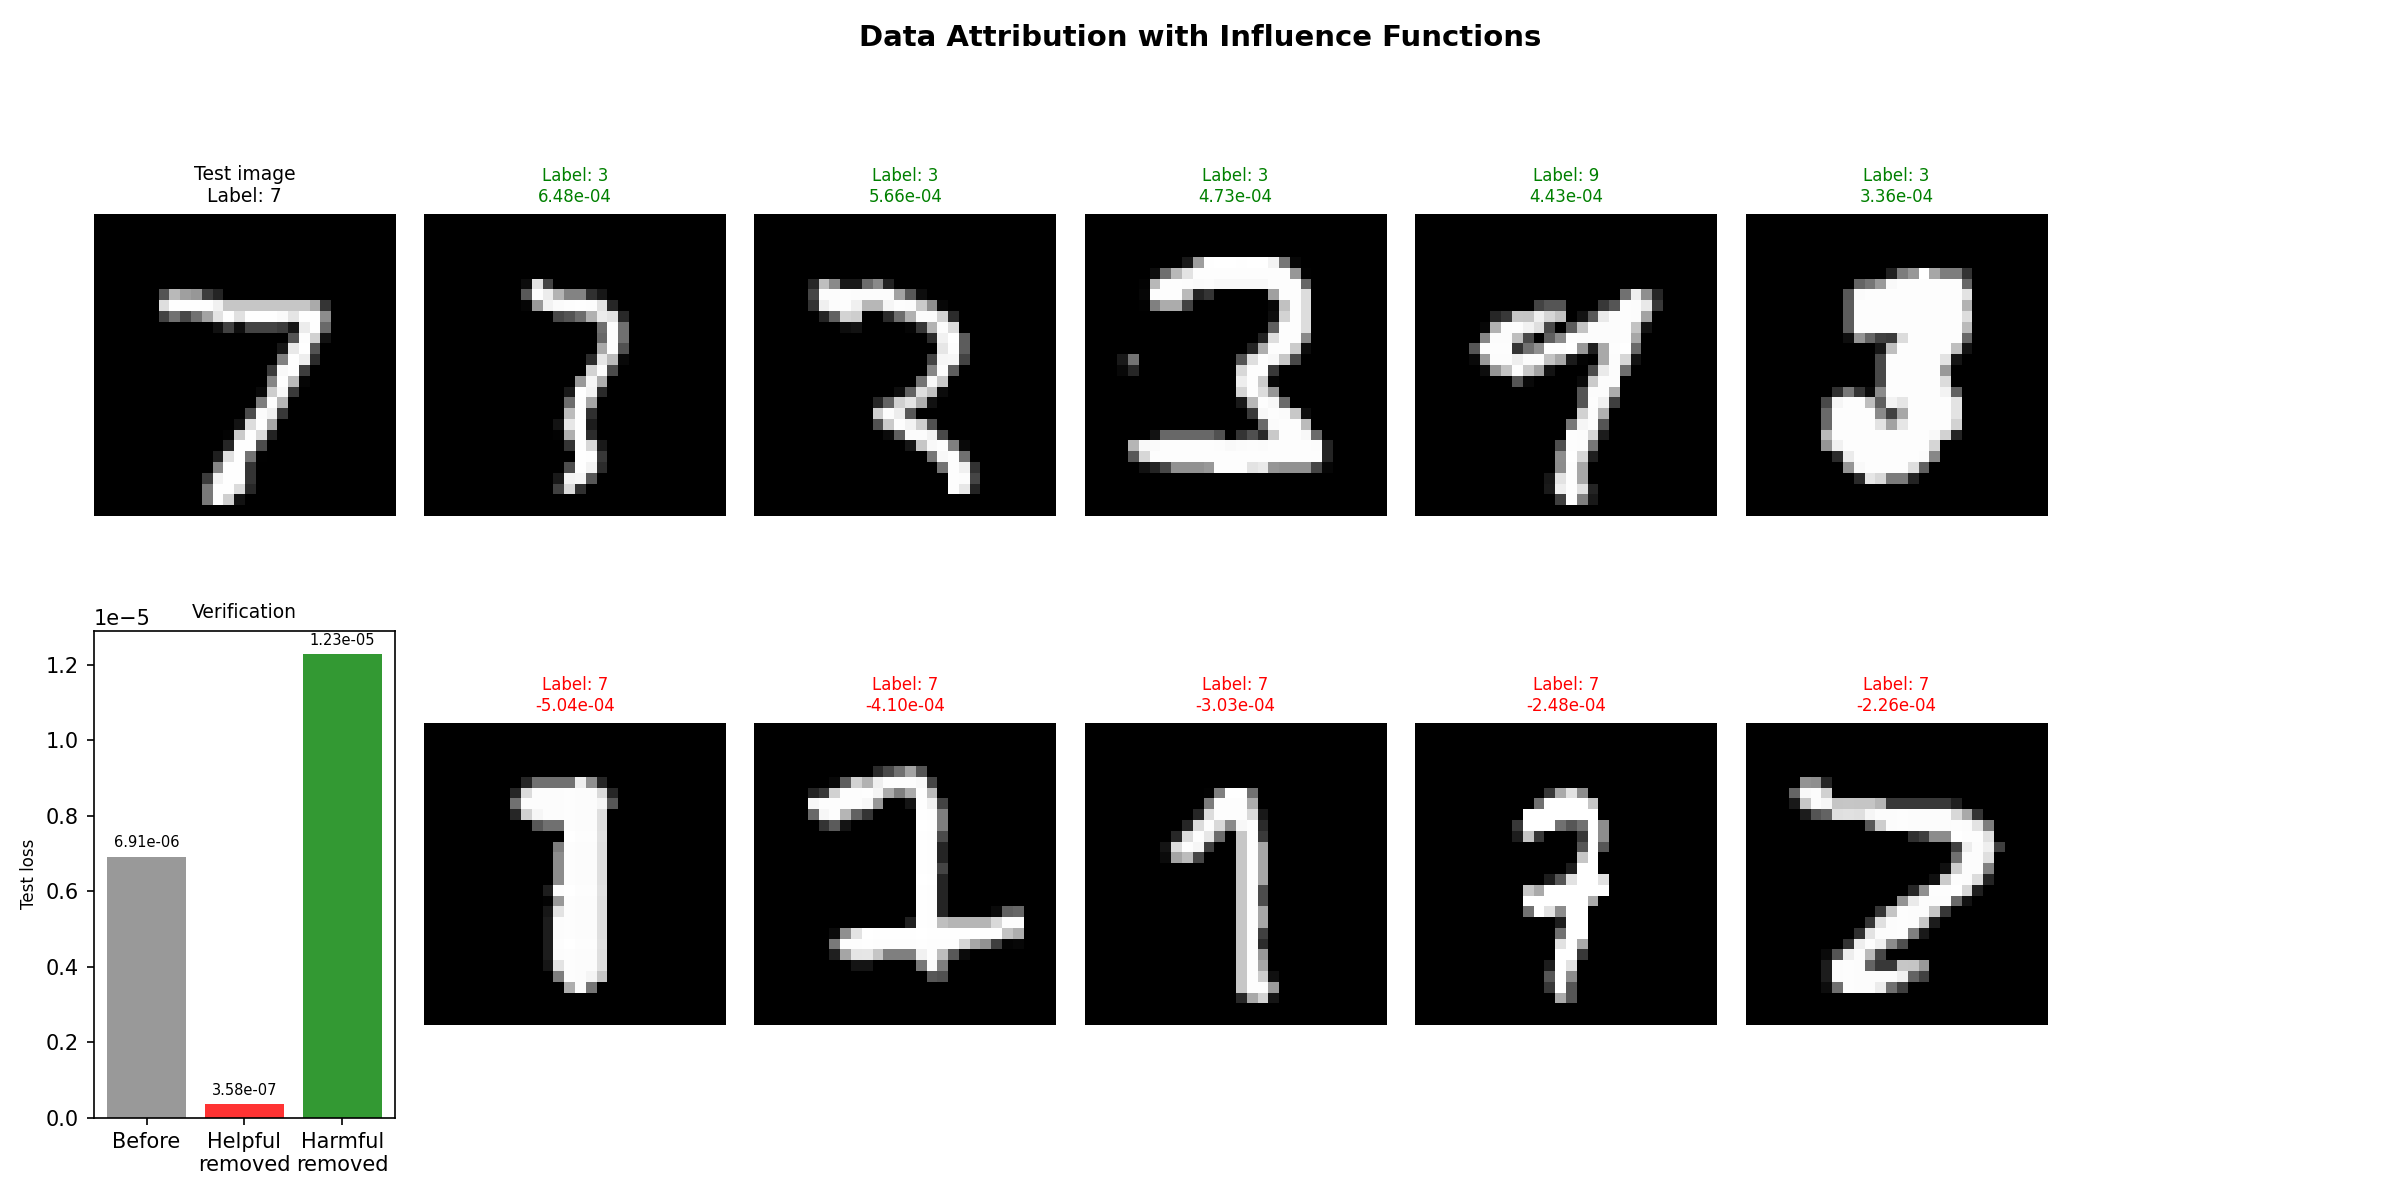
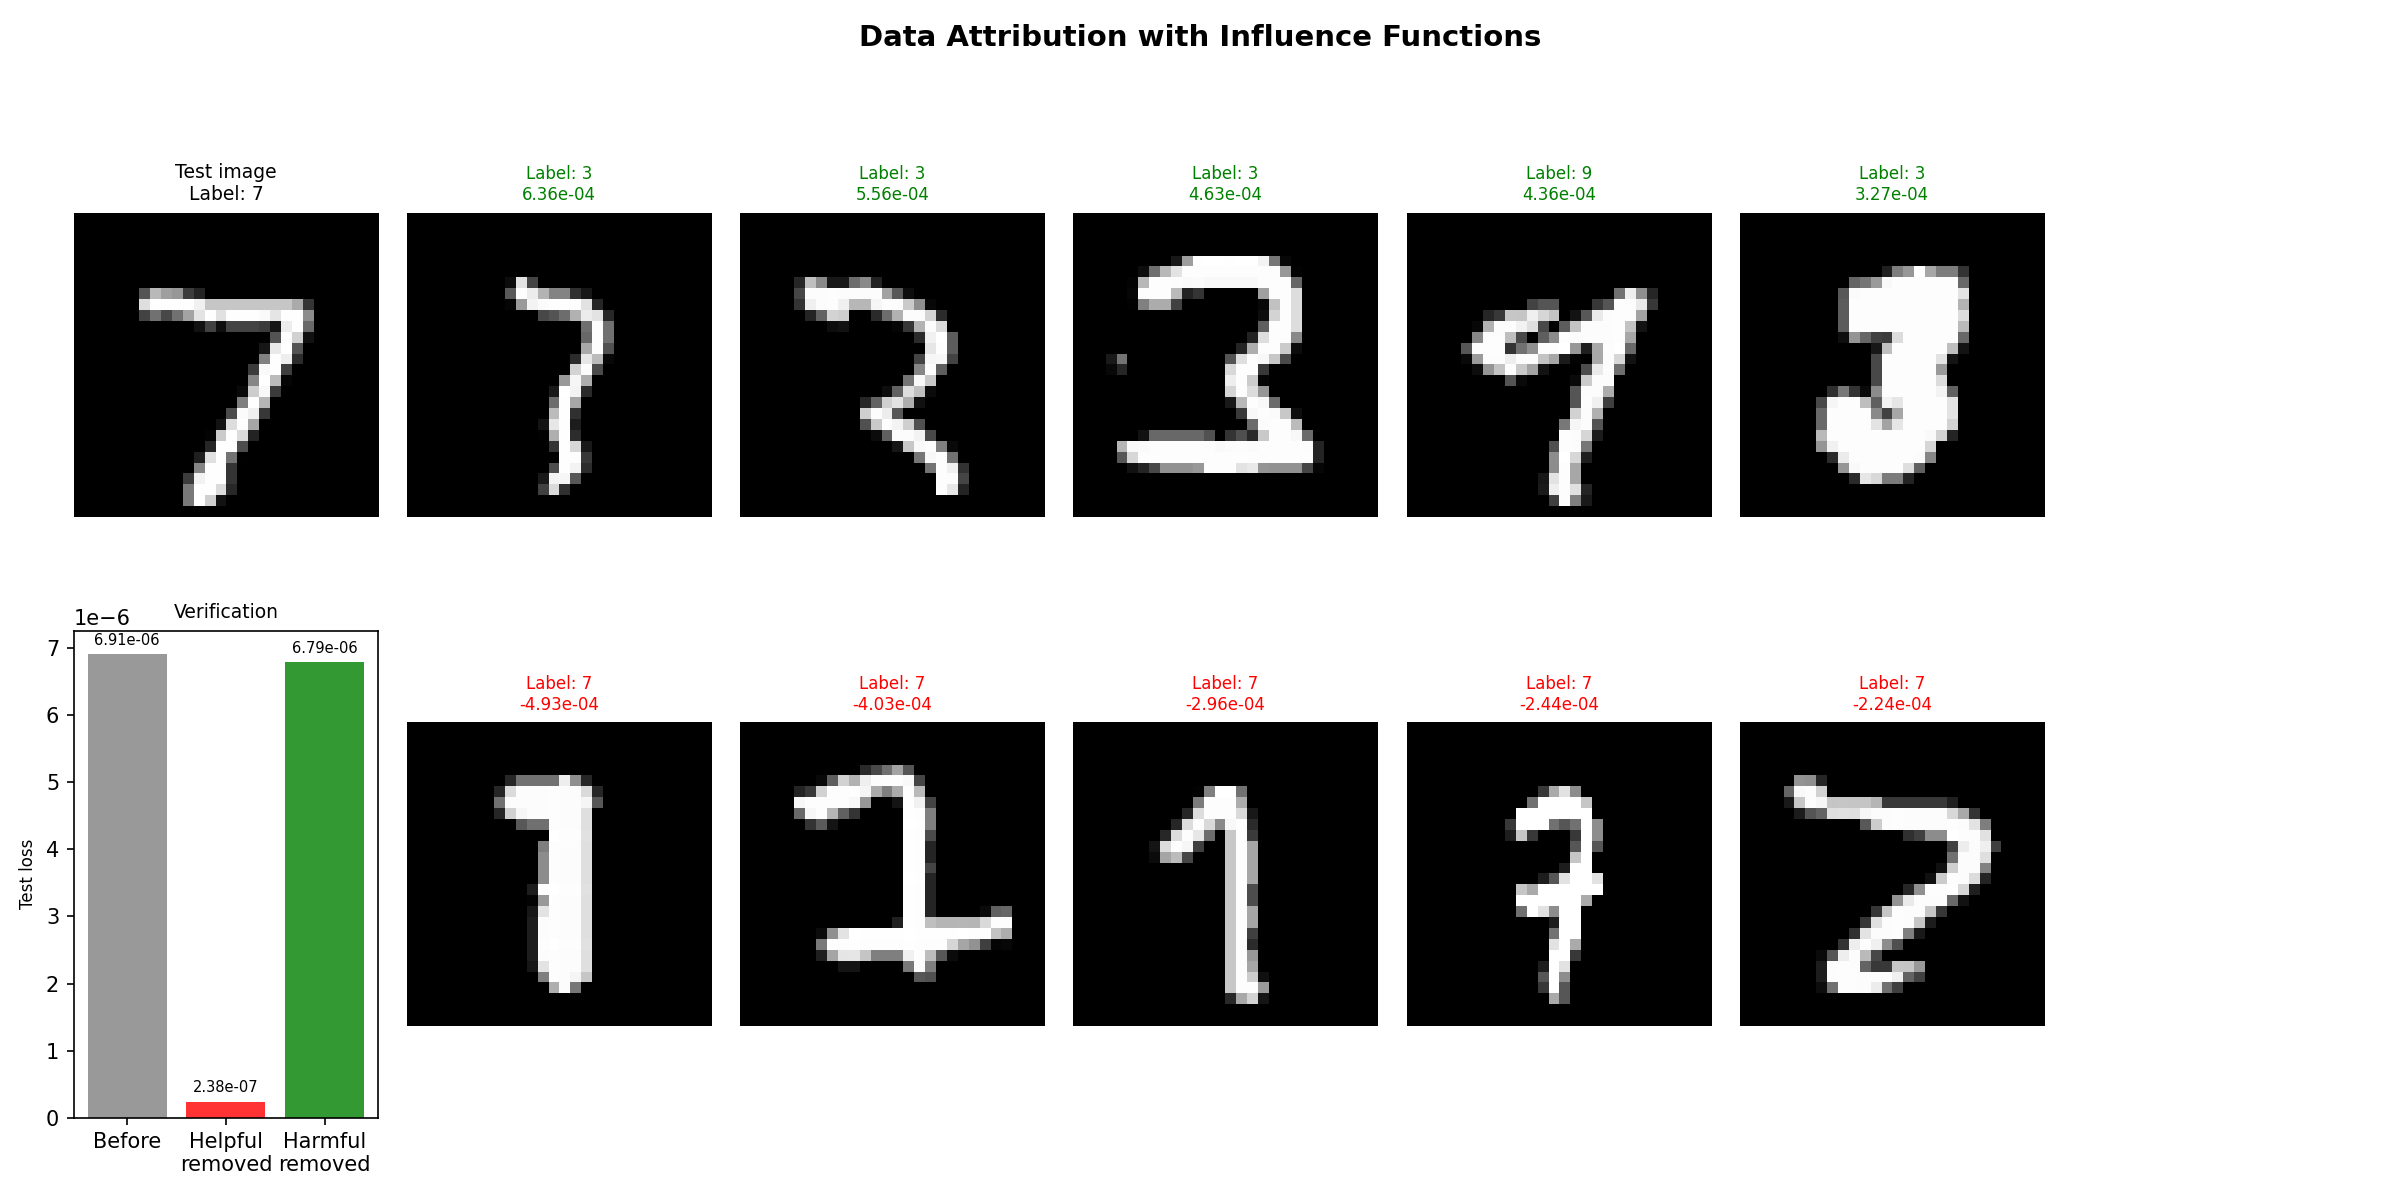
added RAM visualization and runtime, may redo after shutting down laptop and ending all other processes to ensure complete accuracy

diff --git a/runMNIST.py b/runMNIST.py
@@ -1,4 +1,7 @@
 import os
+import subprocess
+import threading
+import time
 from shutil import which
 
 import matplotlib.pyplot as plt
@@ -38,6 +41,8 @@ TOP_K = 10
 NUM_GRADIENT_EXAMPLES = 160
 LOSS_GRID_SIZE = 31
 LOSS_GRID_SPAN = 1.2
+EFFICIENCY_POLL_INTERVAL = 0.001
+EXACT_IHVP_DAMPING = 1e-3 #small value added to the Hessian diagonal to keep it from being singular
 
 
 def load_data():
@@ -107,6 +112,59 @@ class SmallCNN(nn.Module):
 def count_parameters(model):
     return sum(param.numel() for param in model.parameters() if param.requires_grad)
 #just shows trainable parameters in the model because this really just doesn't work for super large models
+
+
+#reads current process RSS (Resident Set Size) memory in MB (megabytes) from the OS using the ps command
+def get_process_rss_mb():
+    rss_kb = subprocess.check_output(
+        ["ps", "-o", "rss=", "-p", str(os.getpid())],
+        text=True,
+    ).strip()
+    return float(rss_kb) / 1024.0
+
+
+#wraps any function to time it and track peak RAM (Random Access Memory) for both CPU and CUDA
+def profile_function(name, function, device):
+    start_rss_mb = get_process_rss_mb() #baseline memory before the function runs
+    peak_rss_mb = start_rss_mb
+    stop_event = threading.Event() #flag used to signal the sampler thread to stop
+
+    def sample_memory():
+        nonlocal peak_rss_mb #lets this inner function write back to the outer variable
+        while not stop_event.is_set(): #keep polling until the event is set
+            peak_rss_mb = max(peak_rss_mb, get_process_rss_mb())
+            time.sleep(EFFICIENCY_POLL_INTERVAL)
+        peak_rss_mb = max(peak_rss_mb, get_process_rss_mb()) #one last sample after stop signal so we don't miss the peak
+
+    sampler = threading.Thread(target=sample_memory, daemon=True) #background thread polls memory while the function runs
+    sampler.start()
+
+    if device.type == "cuda":
+        torch.cuda.reset_peak_memory_stats(device)
+        torch.cuda.synchronize(device) #flush GPU work before starting the clock so timing is accurate
+
+    start_time = time.perf_counter()
+    output = function()
+    if device.type == "cuda":
+        torch.cuda.synchronize(device) #same thing after, flush GPU before stopping the clock
+    elapsed_seconds = time.perf_counter() - start_time
+
+    stop_event.set() #signals the sampler to stop polling
+    sampler.join() #waits for the thread to fully finish so peak_rss_mb is final
+
+    end_rss_mb = get_process_rss_mb() #memory after the function, just to have both bookends
+    result = {
+        "name": name,
+        "time_seconds": elapsed_seconds,
+        "start_rss_mb": start_rss_mb,
+        "end_rss_mb": end_rss_mb,
+        "peak_rss_mb": peak_rss_mb,
+        "peak_rss_delta_mb": max(0.0, peak_rss_mb - start_rss_mb), #how much RAM grew, clamped to 0 so it never shows negative
+    }
+    if device.type == "cuda":
+        result["peak_cuda_mb"] = torch.cuda.max_memory_allocated(device) / (1024 ** 2) #converts bytes to MB
+
+    return output, result
 
 #basic training system, still the boring part
 def train_model(model, train_loader, device):
@@ -259,6 +317,34 @@ def compute_hvp(model, train_loader, vector, device):
     return torch.cat([grad.reshape(-1) for grad in hvp]).detach()
     #flattens tensors into a vector again
 
+
+#computes exact IHVP (Inverse Hessian-Vector Product) by explicitly building the full Hessian and solving a linear system, way more expensive than LiSSA but no approximation error
+def compute_exact_ihvp(model, train_loader, vector, device):
+    params = attribution_params(model)
+    images, labels = next(iter(train_loader))
+    images = images.to(device)
+    labels = labels.to(device)
+
+    loss = F.cross_entropy(model(images), labels)
+    grads = torch.autograd.grad(loss, params, create_graph=True) #keep graph so we can differentiate again for second order
+    flat_grads = torch.cat([grad.reshape(-1) for grad in grads]) #flattened like always so we can index into individual entries
+
+    hessian_rows = []
+    for index in range(flat_grads.numel()): #builds the Hessian row by row by differentiating each gradient entry again
+        second_order = torch.autograd.grad(
+            flat_grads[index],
+            params,
+            retain_graph=True, #retain so we can keep looping through all the rows
+        )
+        hessian_rows.append(torch.cat([grad.reshape(-1) for grad in second_order])) #each result is one row of the Hessian
+
+    hessian = torch.stack(hessian_rows) #assembles the full n x n Hessian matrix
+    identity = torch.eye(hessian.size(0), device=device, dtype=hessian.dtype)
+    stabilized_hessian = hessian + EXACT_IHVP_DAMPING * identity #adds damping on the diagonal to prevent singularity, kinda like ridge regression
+    solution = torch.linalg.solve(stabilized_hessian, vector.detach().unsqueeze(1)) #solves H*x = v directly for x, which gives us H^-1 * v
+    return solution.squeeze(1).detach() #removes the extra column dimension and detaches
+
+
 #implements LiSSA (linear time Stochastic Second-order Algorithm), to approximate inverse Hessian-vector product
 #H^-1 is like the raw test gradient adjusted by the local curvature of the loss surface:
 #if a direction is very "stiff" the inverse Hessian shrinks it, and if a direction is easy to move in, it allows more effect
@@ -288,6 +374,19 @@ def compute_influence_scores(model, train_loader, train_dataset, test_image, tes
         #defined as influence i = - g_test^T * H^-1 * g_train
         #makes sense since If the influence is negative, the similarity is positive, which means that the training example
         #induced a parameter movement that lines up with the direction to make the test loss go up 
+    return scores
+
+
+#same as compute_influence_scores but uses exact IHVP instead of LiSSA, much slower but no approximation error
+def compute_exact_influence_scores(model, train_loader, train_dataset, test_image, test_label, device):
+    model.eval()
+    g_test = compute_gradient(model, test_image, test_label, device)
+    s_test = compute_exact_ihvp(model, train_loader, g_test, device)
+
+    scores = np.zeros(len(train_dataset), dtype=np.float32)
+    for i, (image, label) in enumerate(train_dataset):
+        g_train = compute_gradient(model, image, label, device)
+        scores[i] = -torch.dot(s_test, g_train).item()
     return scores
 
 #baseline loss for specific test example
@@ -422,6 +521,7 @@ def project_to_3d(vectors):
     return vectors @ vh[:3].T, vh[:3].T #return both the projected coords and the basis so we can reuse it later
 
 
+#plots the loss surface in weight space and gradient directions as 3D arrows to show where each example "points" the model
 def visualize_gradient_geometry(model, train_dataset, test_image, test_label, tracin_scores, device):
     os.makedirs(RESULTS_DIR, exist_ok=True)
     model.eval()
@@ -552,6 +652,49 @@ def visualize_gradient_geometry(model, train_dataset, test_image, test_label, tr
     plt.close(fig)
 
 
+#prints time and peak RAM usage for each profiled step
+def print_efficiency_summary(results):
+    print("\nEfficiency summary:")
+    for result in results:
+        message = (
+            f"  {result['name']:20s} "
+            f"time={result['time_seconds']:.2f}s | "
+            f"peak RAM delta={result['peak_rss_delta_mb']:.2f} MB | "
+            f"peak RAM={result['peak_rss_mb']:.2f} MB"
+        )
+        if "peak_cuda_mb" in result:
+            message += f" | peak CUDA={result['peak_cuda_mb']:.2f} MB"
+        print(message)
+
+
+#bar charts comparing runtime and peak RAM increase across methods
+def visualize_efficiency(results):
+    os.makedirs(RESULTS_DIR, exist_ok=True)
+
+    names = [result["name"] for result in results]
+    times = [result["time_seconds"] for result in results]
+    ram_deltas = [result["peak_rss_delta_mb"] for result in results]
+
+    fig, (ax1, ax2) = plt.subplots(1, 2, figsize=(14, 5.2))
+    fig.suptitle("Data attribution efficiency comparison", fontsize=14, fontweight="bold")
+
+    ax1.bar(names, times, color="#4c78a8")
+    ax1.set_title("Runtime")
+    ax1.set_ylabel("seconds")
+    ax1.tick_params(axis="x", rotation=20)
+
+    ax2.bar(range(len(names)), ram_deltas, color="#f58518")
+    ax2.set_title("Peak RAM increase")
+    ax2.set_ylabel("MB")
+    ax2.set_xticks(range(len(names)), names)
+    ax2.tick_params(axis="x", rotation=20)
+
+    plt.tight_layout(rect=[0, 0.06, 1, 0.94], w_pad=3.0)
+    save_path = os.path.join(RESULTS_DIR, "efficiency_comparison.png")
+    plt.savefig(save_path, dpi=170)
+    plt.close(fig)
+
+
 #prints the top scoring helpful and harmful training examples
 def print_score_summary(name, scores, dataset, count=5):
     helpful = np.argsort(scores)[-count:][::-1]
@@ -593,31 +736,87 @@ test_image = test_image.to(device)
 
 model.eval()
 with torch.no_grad():
-    predicted = model(test_image.unsqueeze(0)).argmax().item()
+    predicted = model(test_image.unsqueeze(0)).argmax().item() #just checking what the model actually predicted for the test image
 
-tracin_scores = compute_tracin_scores(
-    model,
-    checkpoints,
-    train_dataset,
-    test_image,
-    test_label,
+#profile each method for speed and memory so we can compare their costs
+benchmark_results = []
+test_gradient = compute_gradient(model, test_image, test_label, device)
+
+#_ discards the actual output since we only care about the timing/memory stats here
+#lambda defers the call so profile_function can hold it and time it instead of it running immediately
+_, hvp_benchmark = profile_function(
+    "compute_hvp",
+    lambda: compute_hvp(model, train_loader, test_gradient, device),
     device,
 )
+benchmark_results.append(hvp_benchmark)
+
+_, lissa_benchmark = profile_function(
+    "lissa",
+    lambda: lissa(model, train_loader, test_gradient, device), #same lambda pattern as above
+    device,
+)
+benchmark_results.append(lissa_benchmark)
+
+_, exact_ihvp_benchmark = profile_function( #just benchmarking cost of exact IHVP vs LiSSA, output discarded
+    "Exact IHVP",
+    lambda: compute_exact_ihvp(model, train_loader, test_gradient, device),
+    device,
+)
+benchmark_results.append(exact_ihvp_benchmark)
+
+tracin_scores, tracin_benchmark = profile_function(
+    "TracIn",
+    lambda: compute_tracin_scores( #keeping the actual scores this time since we need them later
+        model,
+        checkpoints,
+        train_dataset,
+        test_image,
+        test_label,
+        device,
+    ),
+    device,
+)
+benchmark_results.append(tracin_benchmark)
 print_score_summary("TracIn", tracin_scores, train_dataset)
 
-model.load_state_dict(checkpoints[-1]["state_dict"])
+model.load_state_dict(checkpoints[-1]["state_dict"]) #restore to final checkpoint weights before running influence
 model.to(device)
 
-influence_scores = compute_influence_scores(
-    model,
-    train_loader,
-    train_dataset,
-    test_image,
-    test_label,
+influence_scores, influence_benchmark = profile_function(
+    "Influence (LiSSA)",
+    lambda: compute_influence_scores( #same pattern, keeping scores for verification and visualization
+        model,
+        train_loader,
+        train_dataset,
+        test_image,
+        test_label,
+        device,
+    ),
     device,
 )
+benchmark_results.append(influence_benchmark)
 print_score_summary("Influence Functions", influence_scores, train_dataset)
 
+exact_influence_scores, exact_influence_benchmark = profile_function(
+    "Exact Influence",
+    lambda: compute_exact_influence_scores( #keeping scores for comparison against LiSSA influence
+        model,
+        train_loader,
+        train_dataset,
+        test_image,
+        test_label,
+        device,
+    ),
+    device,
+)
+benchmark_results.append(exact_influence_benchmark)
+print_score_summary("Exact Influence Functions", exact_influence_scores, train_dataset)
+
+print_efficiency_summary(benchmark_results)
+visualize_efficiency(benchmark_results)
+
+#checks how much TracIn and influence agree on their top picks
 tracin_ranks = np.argsort(np.argsort(tracin_scores)).astype(float)
 influence_ranks = np.argsort(np.argsort(influence_scores)).astype(float)
 overlap = len(
@@ -689,3 +888,4 @@ visualize_gradient_geometry(
 print(f"\nSaved figure to {os.path.join(RESULTS_DIR, 'results.png')}")
 print(f"Saved figure to {os.path.join(RESULTS_DIR, 'influence.png')}")
 print(f"Saved figure to {os.path.join(RESULTS_DIR, 'gradient_geometry.png')}")
+print(f"Saved figure to {os.path.join(RESULTS_DIR, 'efficiency_comparison.png')}")